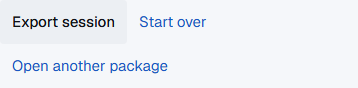
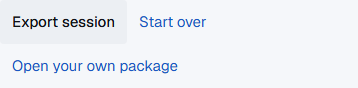
P5 fix: the confirm screen reads the package label from the one source
Its button carried a fixed string, so over the bundled sample it offered to
open another package when none had been opened. It now reads the same label
the strip does: Open your own package over the sample, Open another package
over a package a person brought. Unit tests cover both, and the screenshot of
the summary actions is regenerated.

Changed region(s): [[0.1229, 0.6818, 0.5223, 0.8409]]

diff --git a/src/components/ConfirmSummary.test.tsx b/src/components/ConfirmSummary.test.tsx
@@ -7,6 +7,8 @@ import { createInitialState, type LogEntry, type ReviewSession } from '../state/
 import { getState, replaceState } from '../state/store';
 import type { Field, ResolutionKind } from '../state/types';
 import { ConfirmSummary } from './ConfirmSummary';
+import { samplePackage, setPackage } from '../data/package';
+import { buildPackage } from '../data/user-package';
 
 const resolve = (field: Field, kind: ResolutionKind, value: string = field.id): Field => ({
   ...field,
@@ -78,6 +80,7 @@ const confirmedFixture = (): ReviewSession => {
 afterEach(() => {
   cleanup();
   act(() => replaceState(createInitialState()));
+  act(() => setPackage(samplePackage));
 });
 
 describe('ConfirmSummary', () => {
@@ -121,16 +124,25 @@ describe('ConfirmSummary', () => {
     expect(screen.queryByRole('heading', { name: /Confirmed/ })).not.toBeInTheDocument();
   });
 
-  test('P5: the confirmed review offers the way into another package, beside starting over', async () => {
+  test('P5: the confirmed review offers the way into a package, beside starting over', async () => {
     const onOpenPackage = vi.fn();
     act(() => replaceState(confirmedFixture()));
     render(<ConfirmSummary onOpenPackage={onOpenPackage} />);
 
     const actions = document.querySelector('.confirm-summary__actions') as HTMLElement;
     expect(within(actions).getAllByRole('button').map(button => button.textContent))
-      .toEqual(['Export session', 'Start over', 'Open another package']);
-    await userEvent.click(within(actions).getByRole('button', { name: 'Open another package' }));
+      .toEqual(['Export session', 'Start over', 'Open your own package']);
+    await userEvent.click(within(actions).getByRole('button', { name: 'Open your own package' }));
     expect(onOpenPackage).toHaveBeenCalledOnce();
+  });
+
+  test('P5: the summary reads the label from the package the page is holding', () => {
+    act(() => replaceState(confirmedFixture()));
+    act(() => setPackage(buildPackage({ reference: 'RFQ 91-2201', email: 'Subject line\n\nBody.' })));
+    render(<ConfirmSummary onOpenPackage={vi.fn()} />);
+
+    expect(screen.getByRole('button', { name: 'Open another package' })).toBeInTheDocument();
+    expect(screen.queryByRole('button', { name: 'Open your own package' })).toBeNull();
   });
 
   test('a summary given no way into a package shows none', () => {

diff --git a/src/components/ConfirmSummary.tsx b/src/components/ConfirmSummary.tsx
@@ -8,6 +8,7 @@ import type { Field, FieldId, ResolutionKind } from '../state/types';
 import { Button } from './Button';
 import { LogLine } from './ChangeLogDrawer';
 import { useReplay } from '../hooks/useReplay';
+import { useOpenPackageLabel } from '../hooks/usePackage';
 import { leave } from '../replay/controller';
 import { ExportSessionButton } from './ExportSessionButton';
 
@@ -32,6 +33,7 @@ const fieldList = (fields: Field[]): string => fields.map(field => fieldLabel(fi
 export function ConfirmSummary({ logContent, onOpenPackage }: ConfirmSummaryProps) {
   const { confirmed, log, state, timer } = useReview();
   const replay = useReplay();
+  const openPackageLabel = useOpenPackageLabel();
   if (!confirmed) return null;
 
   const fieldsByResolution = (kind: ResolutionKind) =>
@@ -152,8 +154,9 @@ export function ConfirmSummary({ logContent, onOpenPackage }: ConfirmSummaryProp
         <ExportSessionButton />
         <Button variant="text" onClick={() => { if (replay.active) void leave(); else replaceState(createInitialState()); }}>Start over</Button>
         {/* The review is over, so a package of your own costs nothing to open
-            from here and asks for no warning. */}
-        {onOpenPackage && <Button variant="text" onClick={onOpenPackage}>Open another package</Button>}
+            from here and asks for no warning. The label is the strip's, from one
+            source, so the two never disagree about the package on the page. */}
+        {onOpenPackage && <Button variant="text" onClick={onOpenPackage}>{openPackageLabel}</Button>}
       </div>
     </section>
   );

diff --git a/e2e/own-package.spec.ts b/e2e/own-package.spec.ts
@@ -507,7 +507,9 @@ for (const width of [1920, 390]) {
     await page.goto('/');
     await confirmEverything(page);
 
-    const opener = page.locator('.confirm-summary__actions').getByRole('button', { name: 'Open another package' });
+    // The label is the strip's, from one source: the sample is on the page here,
+    // so it reads as it does in the strip over the sample.
+    const opener = page.locator('.confirm-summary__actions').getByRole('button', { name: 'Open your own package' });
     await expect(opener).toBeVisible();
     const path = 'docs/qa/p5/confirm-screen-actions-' + width + '.png';
     if (await saveEvidence(page.locator('.confirm-summary__actions'), path)) {
@@ -530,6 +532,8 @@ for (const width of [1920, 390]) {
     await expect(dialog(page)).toBeHidden();
     await expect(page.locator('.header__package')).toHaveText('RFQ 91-2205');
     await expect(page.locator('.field-row__badge').filter({ hasText: 'Not extracted' })).toHaveCount(11);
+    // A package of the person's own is on the page now, so the strip says so.
+    await expect(page.locator('.status-strip').getByRole('button', { name: 'Open another package' })).toBeVisible();
     // The announcement itself is timed out of a queue eleven verifications long;
     // the tests that open a package from the strip assert it on a quiet page.
     await expect(page.locator('.confirm-summary')).toHaveCount(0);

diff --git a/tasks/P5-own-package.md b/tasks/P5-own-package.md
@@ -72,7 +72,7 @@ This supersedes § Entry point where the two disagree, and the P3-era `Play samp
 
 - `Play sample session` and `Open your own package` / `Open another package` leave the change-log header at every width and in every state. The strip keeps both in `no-api` and `waiting` at the two-column widths and in `waiting` below it, as today; below the breakpoint in `no-api` there is no own-package entry at all.
 - The dialog can no longer open while a session is in progress, so the in-progress warning line and its test are gone.
-- The confirm screen gains the text button `Open another package` beside `Start over`, opening the same dialog: the review is confirmed, so nothing is lost and no line warns about it. Focus returns to that button on `Cancel` and `Esc`; after `Open package` the announcement and the reset are the ones § After opening already names.
+- The confirm screen gains a text button beside `Start over`, opening the same dialog: the review is confirmed, so nothing is lost and no line warns about it. Its label is the strip's, from the one source § Entry point names — `Open your own package` over the sample, `Open another package` over a package a person opened. Focus returns to that button on `Cancel` and `Esc`; after `Open package` the announcement and the reset are the ones § After opening already names.
 
 ### First load and settled rows (owner's rulings, 2026-09-02)
 
@@ -161,7 +161,7 @@ Playwright `e2e/own-package.spec.ts` (production build, API state declared per t
 - [x] Every end-to-end test declares the API state through the helpers, including the existing `no-api` tests — every test in `own-package.spec.ts` installs or removes `document.modelContext`; the existing `no-api` tests in `layout.spec.ts` and `narrow.spec.ts` already carry `removeModelContext`
 - [x] The two orientation strings and the privacy line passed `ai-text-detector` — low AI probability on all three, no rewrite; the verdict is in the pull request
 - [x] T2 and T4 green for user content; the T3 statement visible in the dialog — `own-package.spec.ts` › `pasted markup reaches the screen as text, never as HTML` (T4), with a clean console throughout and the image held as a data URL in the page (T2); `OpenPackageDialog.test.tsx` › `it says where the pasted text goes, without promising the data stays here` (T3)
-- [x] § Change-log header by state: the header carries the actions of its state and no others, the way into a package of your own stands in the strip and on the confirm screen, and the dialog no longer warns about a review in progress — `ChangeLogDrawer.test.tsx` › `the log header carries only what the state asks for` (five cases, one per state and one for what no state offers), `SessionFiles.test.tsx` › `an empty log offers import as one tab stop on the native file input`, `ConfirmSummary.test.tsx` › `the confirmed review offers the way into another package, beside starting over`; `own-package.spec.ts` › `1920px/390px: the change-log header carries the actions of its state` and `1920px/390px: the confirmed review opens another package, and hands focus back`; `replay.spec.ts` › `the drawer header tab stops follow the state it is in`; `docs/qa/p5/log-header-{empty,live,replay,confirmed}-{1920,390}.png` and `docs/qa/p5/confirm-screen-actions-{1920,390}.png`
+- [x] § Change-log header by state: the header carries the actions of its state and no others, the way into a package of your own stands in the strip and on the confirm screen, and the dialog no longer warns about a review in progress — `ChangeLogDrawer.test.tsx` › `the log header carries only what the state asks for` (five cases, one per state and one for what no state offers), `SessionFiles.test.tsx` › `an empty log offers import as one tab stop on the native file input`, `ConfirmSummary.test.tsx` › `the confirmed review offers the way into a package, beside starting over` and `the summary reads the label from the package the page is holding`; `own-package.spec.ts` › `1920px/390px: the change-log header carries the actions of its state` and `1920px/390px: the confirmed review opens another package, and hands focus back`; `replay.spec.ts` › `the drawer header tab stops follow the state it is in`; `docs/qa/p5/log-header-{empty,live,replay,confirmed}-{1920,390}.png` and `docs/qa/p5/confirm-screen-actions-{1920,390}.png`
 - [x] § Leaving a session: `Leave sample` / `Leave session` in every replay state, `Restart` gone, the live `Start over` behind the dialog; the named unit and e2e tests green; screenshots in the pull request — `ReplayControls.test.tsx` (10 cases) and `ChangeLogDrawer.test.tsx` › `the log header during a live session`; `own-package.spec.ts` › `1920px/390px: leaving the sample gives back the page it started from` and `Start over during a live session asks first, and clears the page on the second word`; `docs/qa/p5/replay-{playing,paused,ended,error}-{1920,820,390}.png` and `docs/qa/p5/start-over-dialog-{1920,390}.png`
 - [x] § First load and settled rows: no heading over a single group (unit and e2e); settled rows unchanged — `FieldList.test.tsx` › `P5: one group carries no heading`; `own-package.spec.ts` › `the first load carries no group heading, and the first proposal brings two`; `docs/qa/p5/first-load-no-heading-{1920,390}.png`; no row code changed, and the rule is written into DESIGN.md
 - [x] DESIGN.md carries the dialog line, the `--scrim` token, the native-controls line and items (a)–(e) of the § Scope row; `docs/design/README.md` notes row 11 — § Interaction states (the dialog as a screen of its own, and the Absent states table), § Choice controls (the native elements), § Color (`--scrim`), § Spacing, layout (the one-group rule), § State iconography (settled rows keep their evidence; String sources), and the new § Components table; `AGENTS.md` now points at that table
